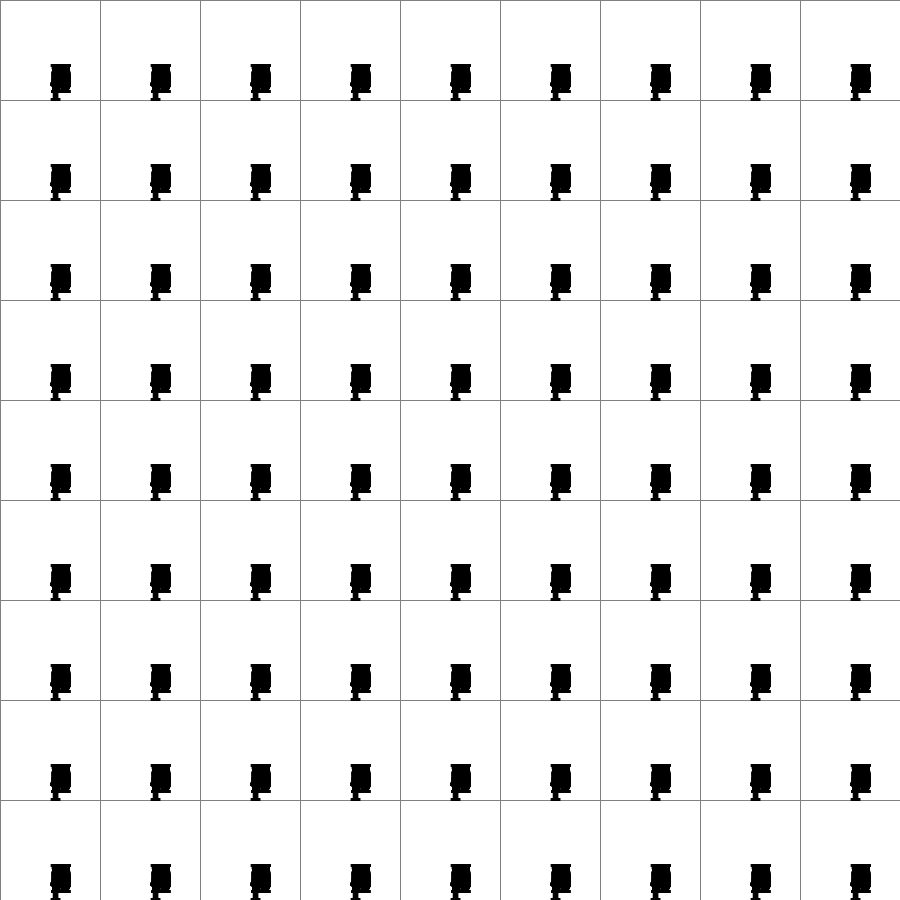
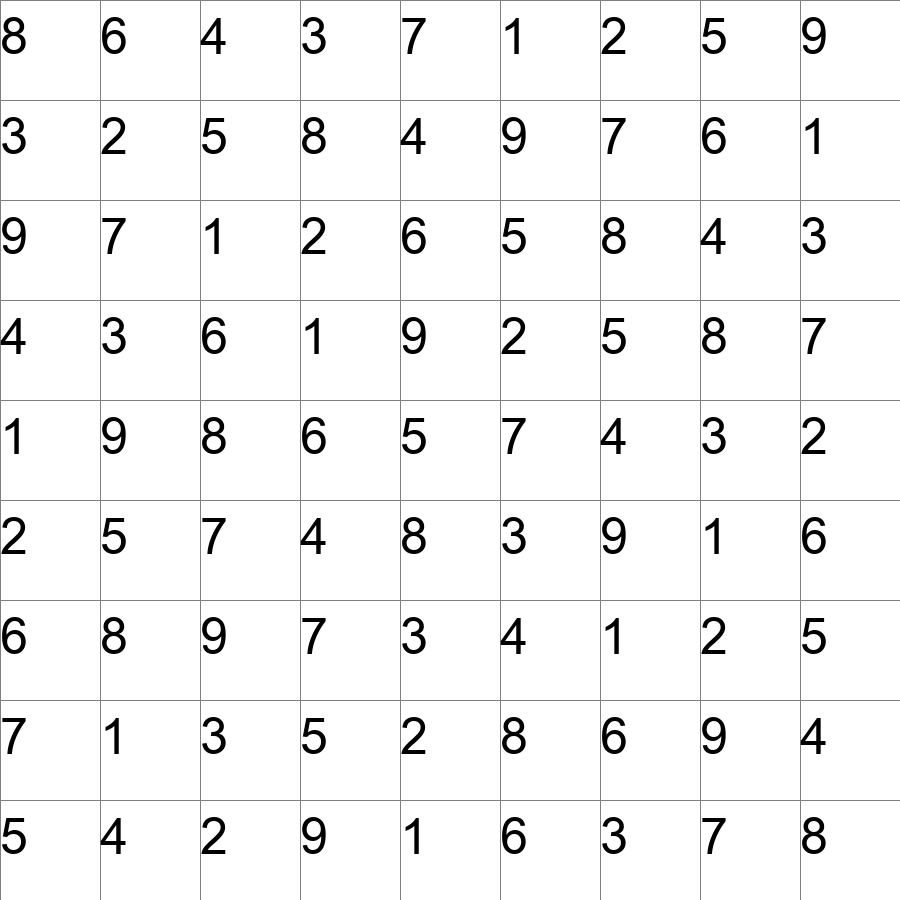
fixed trial.py

diff --git a/trials.py b/trials.py
@@ -2,15 +2,17 @@ import functions as func
 from PIL import Image, ImageFont, ImageDraw
 
 
-font = ImageFont.truetype("Arial Unicode.ttf", 40)
-sudoku = str(func.return_solutions("sudoku.csv", "solutions", 1))
+font = ImageFont.truetype("Arial Unicode.ttf", 50)
+sudoku = func.return_solutions("sudoku.csv", "solutions", 1)[0]
 img = Image.open("/Users/anuj/Desktop/Sudoku/Images/grid-1646985520.479167.png")
 draw = ImageDraw.Draw(img)
-print(type(sudoku))
+print(sudoku)
+print(len(sudoku))
+count = 0
+for x in range(0, 900, 100):
+    for y in range(0, 900, 100):
+        draw.text((y,x), sudoku[count], font = font)
+        count +=1
 
-for item in range(len(sudoku)):   
-    for x in range(50, 900, 100):
-        for y in range(50, 900, 100):
-            draw.text((x,y), sudoku[item], font = font)
 
 img.save("Sudoku1.png")
